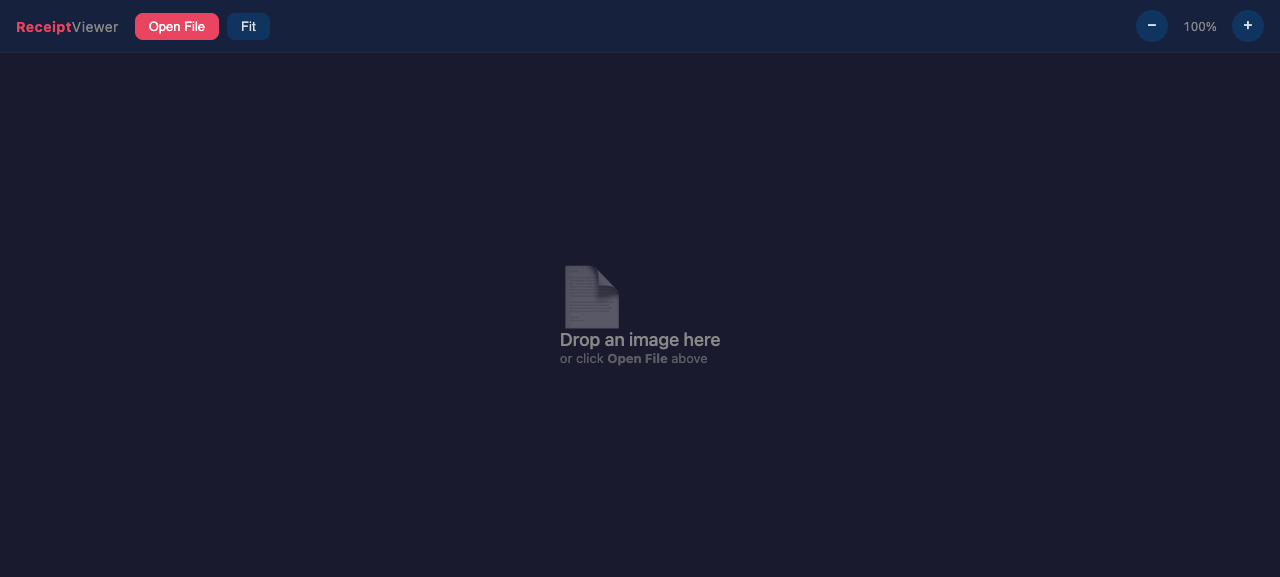
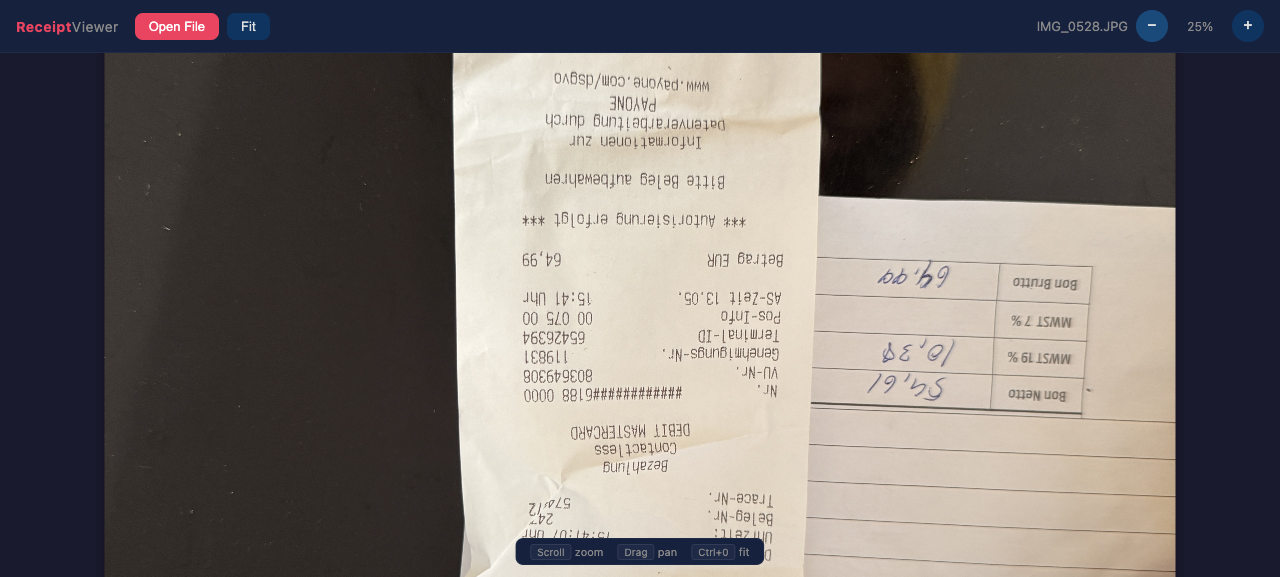
README: fix broken HTML, update screenshot

diff --git a/README.md b/README.md
@@ -11,9 +11,9 @@ A **zero-dependency, single-file** HTML image viewer optimized for receipt/docum
 - **Smooth zoom** — mouse scroll wheel, `+`/`−` buttons, or <kbd>Ctrl+</kbd>/<kbd>Ctrl−</kbd>.
 - **Smart zoom** — zooms toward the cursor position, not the center.
 - **Pan** — click and drag the image when zoomed in.
-- **Fit to screen** — one click or <kbd>Ctrl+0</kbd>Ctrl+0<kbd>.</kbd>
+- **Fit to screen** — one click or <kbd>Ctrl+0</kbd>.
+- **Zero dependencies** — single HTML file, open in any browser.
 - **Clean dark UI** — easy on the eyes for long review sessions.
--format documents.
 - **Keyboard shortcuts** — <kbd>Ctrl+</kbd> zoom in, <kbd>Ctrl−</kbd> zoom out, <kbd>Ctrl+0</kbd> fit.
 
 ## Browser Support